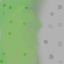
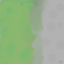
* New images * Looted tales are shown

diff --git a/src/app/grid/grid.component.ts b/src/app/grid/grid.component.ts
@@ -18,7 +18,8 @@ export class GridComponent implements OnInit {
 
   tiles: string[] = [];
   tilesMap = new Map<string,string>([[">","Elevation_Tile"],["|","Gate_Tile"],["$","Mountain_Tile"],
-                                            ["_","Pasture_Tile"],["-","Water_Tile"],["+","Wood_Tile"]]);
+                                            ["_","Pasture_Tile"],["-","Water_Tile"],["+","Wood_Tile"],
+                                            [".","Pasture_Tile_Looted"],["<","Elevation_Tile_Looted"],[":","Wood_Tile_Looted"]]);
 
   private isOver: boolean = false;
 
